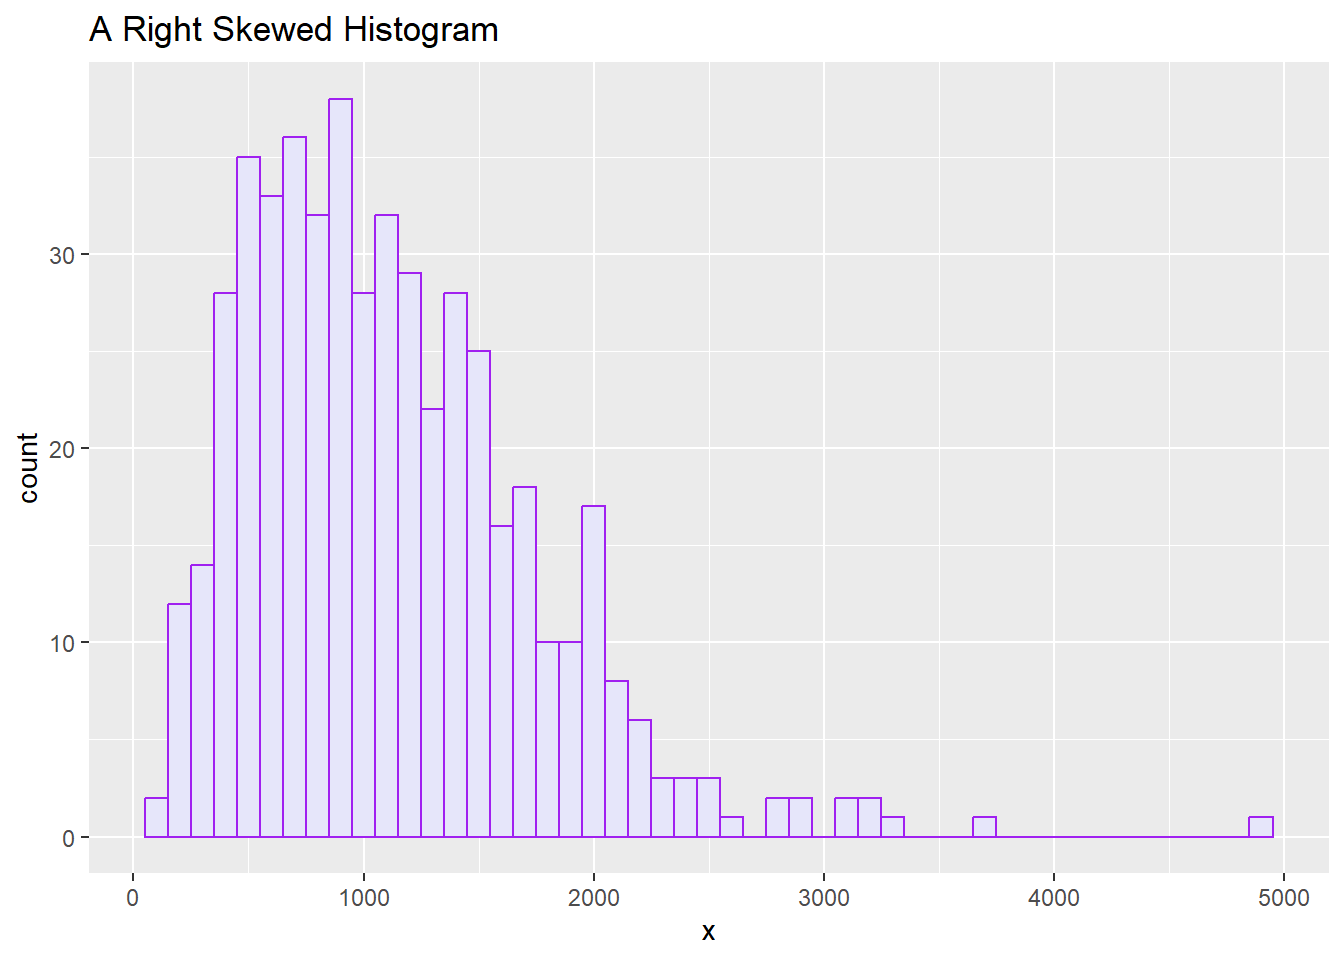
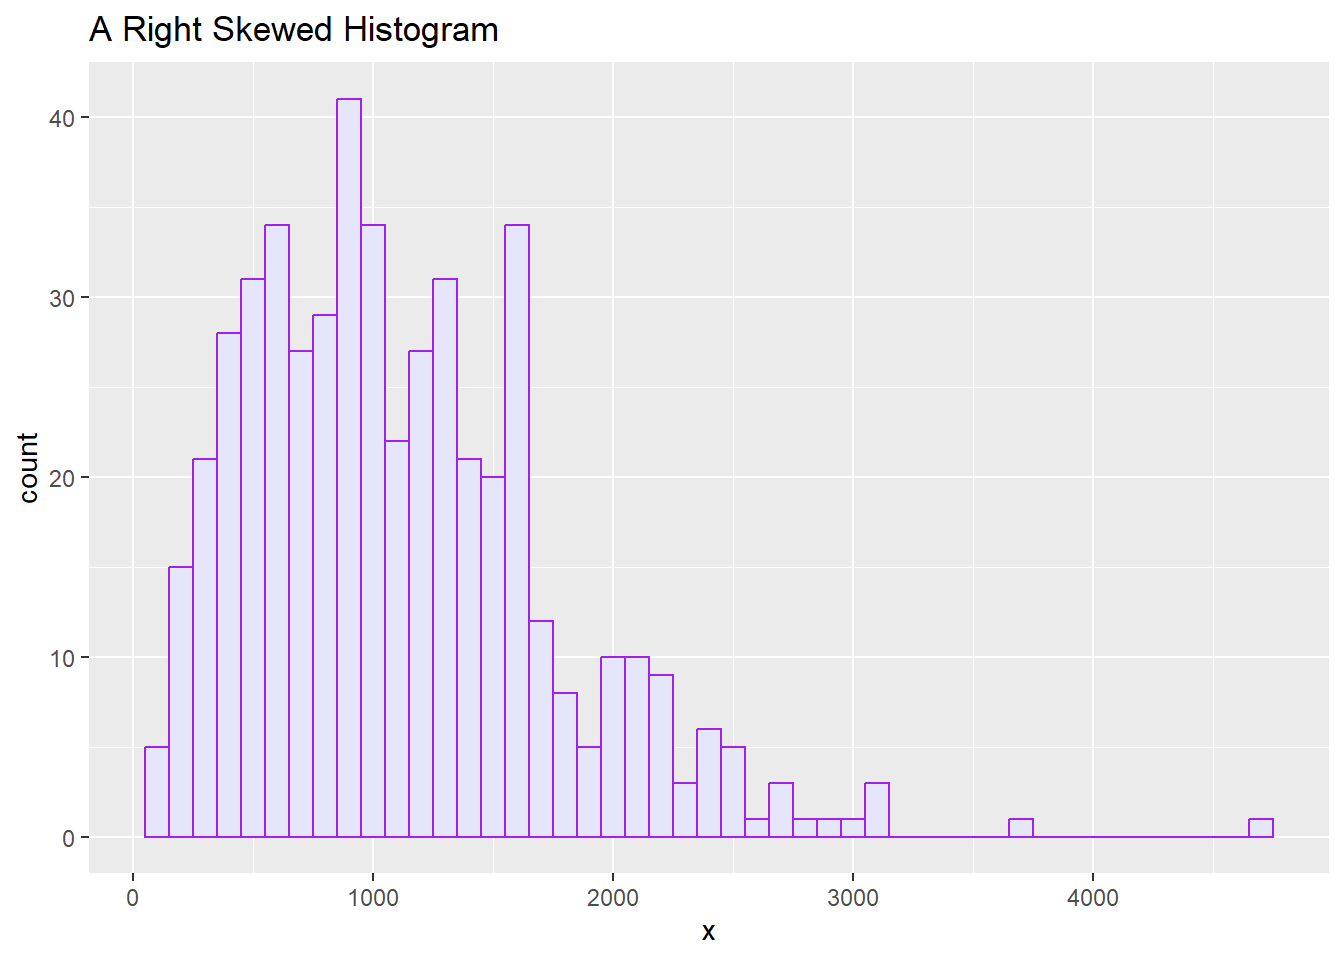
rebuild search index

diff --git a/docs/index.html b/docs/index.html
@@ -113,7 +113,7 @@ pre > code.sourceCode > span > a:first-child::before { text-decoration: underlin
 </script>
 
 <!-- ============================================================
-     BUAD231 Course Assistant — Floating Chat Bubble
+     Statistics Course Assistant — Floating Chat Bubble
      Appears on every page of the book.
      Set WORKER_URL below to your Cloudflare Worker URL.
      ============================================================ -->
@@ -463,7 +463,7 @@ pre > code.sourceCode > span > a:first-child::before { text-decoration: underlin
     <div class="logo">R∑</div>
     <div class="title">
       <h3>Course Assistant</h3>
-      <p>BUAD231 · R &amp; Statistics</p>
+      <p>R &amp; Statistics</p>
     </div>
     <button id="chat-close-btn" onclick="toggleChat()" aria-label="Close">
       <svg viewbox="0 0 24 24" fill="none" stroke="currentColor" stroke-width="2.5" stroke-linecap="round">
@@ -501,7 +501,7 @@ pre > code.sourceCode > span > a:first-child::before { text-decoration: underlin
 <script>
   // ============================================================
   // Set this to your Cloudflare Worker URL after deploying
-  // Example: 'https://buad231-chat.yourname.workers.dev'
+
   // ============================================================
   var CHAT_WORKER_URL = 'https://statchat.pamela-schlosser.workers.dev/';
   // ============================================================
@@ -1213,7 +1213,7 @@ window.Quarto = {
 </ul>
 <div class="quarto-figure quarto-figure-center">
 <figure class="figure">
-<p><img src="Pictures/RMDTasks.png" class="img-fluid figure-img"></p>
+<p><img src="Pictures/RMD/RMDTasks.png" class="img-fluid figure-img"></p>
 <figcaption>Looking at the HW</figcaption>
 </figure>
 </div>

diff --git a/docs/module1.html b/docs/module1.html
@@ -114,7 +114,7 @@ pre > code.sourceCode > span > a:first-child::before { text-decoration: underlin
 </script>
 
 <!-- ============================================================
-     BUAD231 Course Assistant — Floating Chat Bubble
+     Statistics Course Assistant — Floating Chat Bubble
      Appears on every page of the book.
      Set WORKER_URL below to your Cloudflare Worker URL.
      ============================================================ -->
@@ -464,7 +464,7 @@ pre > code.sourceCode > span > a:first-child::before { text-decoration: underlin
     <div class="logo">R∑</div>
     <div class="title">
       <h3>Course Assistant</h3>
-      <p>BUAD231 · R &amp; Statistics</p>
+      <p>R &amp; Statistics</p>
     </div>
     <button id="chat-close-btn" onclick="toggleChat()" aria-label="Close">
       <svg viewbox="0 0 24 24" fill="none" stroke="currentColor" stroke-width="2.5" stroke-linecap="round">
@@ -502,7 +502,7 @@ pre > code.sourceCode > span > a:first-child::before { text-decoration: underlin
 <script>
   // ============================================================
   // Set this to your Cloudflare Worker URL after deploying
-  // Example: 'https://buad231-chat.yourname.workers.dev'
+
   // ============================================================
   var CHAT_WORKER_URL = 'https://statchat.pamela-schlosser.workers.dev/';
   // ============================================================

diff --git a/docs/module2.html b/docs/module2.html
@@ -114,7 +114,7 @@ pre > code.sourceCode > span > a:first-child::before { text-decoration: underlin
 </script>
 
 <!-- ============================================================
-     BUAD231 Course Assistant — Floating Chat Bubble
+     Statistics Course Assistant — Floating Chat Bubble
      Appears on every page of the book.
      Set WORKER_URL below to your Cloudflare Worker URL.
      ============================================================ -->
@@ -464,7 +464,7 @@ pre > code.sourceCode > span > a:first-child::before { text-decoration: underlin
     <div class="logo">R∑</div>
     <div class="title">
       <h3>Course Assistant</h3>
-      <p>BUAD231 · R &amp; Statistics</p>
+      <p>R &amp; Statistics</p>
     </div>
     <button id="chat-close-btn" onclick="toggleChat()" aria-label="Close">
       <svg viewbox="0 0 24 24" fill="none" stroke="currentColor" stroke-width="2.5" stroke-linecap="round">
@@ -502,7 +502,7 @@ pre > code.sourceCode > span > a:first-child::before { text-decoration: underlin
 <script>
   // ============================================================
   // Set this to your Cloudflare Worker URL after deploying
-  // Example: 'https://buad231-chat.yourname.workers.dev'
+
   // ============================================================
   var CHAT_WORKER_URL = 'https://statchat.pamela-schlosser.workers.dev/';
   // ============================================================

diff --git a/docs/module3.html b/docs/module3.html
@@ -114,7 +114,7 @@ pre > code.sourceCode > span > a:first-child::before { text-decoration: underlin
 </script>
 
 <!-- ============================================================
-     BUAD231 Course Assistant — Floating Chat Bubble
+     Statistics Course Assistant — Floating Chat Bubble
      Appears on every page of the book.
      Set WORKER_URL below to your Cloudflare Worker URL.
      ============================================================ -->
@@ -464,7 +464,7 @@ pre > code.sourceCode > span > a:first-child::before { text-decoration: underlin
     <div class="logo">R∑</div>
     <div class="title">
       <h3>Course Assistant</h3>
-      <p>BUAD231 · R &amp; Statistics</p>
+      <p>R &amp; Statistics</p>
     </div>
     <button id="chat-close-btn" onclick="toggleChat()" aria-label="Close">
       <svg viewbox="0 0 24 24" fill="none" stroke="currentColor" stroke-width="2.5" stroke-linecap="round">
@@ -502,7 +502,7 @@ pre > code.sourceCode > span > a:first-child::before { text-decoration: underlin
 <script>
   // ============================================================
   // Set this to your Cloudflare Worker URL after deploying
-  // Example: 'https://buad231-chat.yourname.workers.dev'
+
   // ============================================================
   var CHAT_WORKER_URL = 'https://statchat.pamela-schlosser.workers.dev/';
   // ============================================================

diff --git a/docs/module4.html b/docs/module4.html
@@ -114,7 +114,7 @@ pre > code.sourceCode > span > a:first-child::before { text-decoration: underlin
 </script>
 
 <!-- ============================================================
-     BUAD231 Course Assistant — Floating Chat Bubble
+     Statistics Course Assistant — Floating Chat Bubble
      Appears on every page of the book.
      Set WORKER_URL below to your Cloudflare Worker URL.
      ============================================================ -->
@@ -464,7 +464,7 @@ pre > code.sourceCode > span > a:first-child::before { text-decoration: underlin
     <div class="logo">R∑</div>
     <div class="title">
       <h3>Course Assistant</h3>
-      <p>BUAD231 · R &amp; Statistics</p>
+      <p>R &amp; Statistics</p>
     </div>
     <button id="chat-close-btn" onclick="toggleChat()" aria-label="Close">
       <svg viewbox="0 0 24 24" fill="none" stroke="currentColor" stroke-width="2.5" stroke-linecap="round">
@@ -502,7 +502,7 @@ pre > code.sourceCode > span > a:first-child::before { text-decoration: underlin
 <script>
   // ============================================================
   // Set this to your Cloudflare Worker URL after deploying
-  // Example: 'https://buad231-chat.yourname.workers.dev'
+
   // ============================================================
   var CHAT_WORKER_URL = 'https://statchat.pamela-schlosser.workers.dev/';
   // ============================================================

diff --git a/docs/module5.html b/docs/module5.html
@@ -114,7 +114,7 @@ pre > code.sourceCode > span > a:first-child::before { text-decoration: underlin
 </script>
 
 <!-- ============================================================
-     BUAD231 Course Assistant — Floating Chat Bubble
+     Statistics Course Assistant — Floating Chat Bubble
      Appears on every page of the book.
      Set WORKER_URL below to your Cloudflare Worker URL.
      ============================================================ -->
@@ -464,7 +464,7 @@ pre > code.sourceCode > span > a:first-child::before { text-decoration: underlin
     <div class="logo">R∑</div>
     <div class="title">
       <h3>Course Assistant</h3>
-      <p>BUAD231 · R &amp; Statistics</p>
+      <p>R &amp; Statistics</p>
     </div>
     <button id="chat-close-btn" onclick="toggleChat()" aria-label="Close">
       <svg viewbox="0 0 24 24" fill="none" stroke="currentColor" stroke-width="2.5" stroke-linecap="round">
@@ -502,7 +502,7 @@ pre > code.sourceCode > span > a:first-child::before { text-decoration: underlin
 <script>
   // ============================================================
   // Set this to your Cloudflare Worker URL after deploying
-  // Example: 'https://buad231-chat.yourname.workers.dev'
+
   // ============================================================
   var CHAT_WORKER_URL = 'https://statchat.pamela-schlosser.workers.dev/';
   // ============================================================

diff --git a/docs/module6.html b/docs/module6.html
@@ -114,7 +114,7 @@ pre > code.sourceCode > span > a:first-child::before { text-decoration: underlin
 </script>
 
 <!-- ============================================================
-     BUAD231 Course Assistant — Floating Chat Bubble
+     Statistics Course Assistant — Floating Chat Bubble
      Appears on every page of the book.
      Set WORKER_URL below to your Cloudflare Worker URL.
      ============================================================ -->
@@ -464,7 +464,7 @@ pre > code.sourceCode > span > a:first-child::before { text-decoration: underlin
     <div class="logo">R∑</div>
     <div class="title">
       <h3>Course Assistant</h3>
-      <p>BUAD231 · R &amp; Statistics</p>
+      <p>R &amp; Statistics</p>
     </div>
     <button id="chat-close-btn" onclick="toggleChat()" aria-label="Close">
       <svg viewbox="0 0 24 24" fill="none" stroke="currentColor" stroke-width="2.5" stroke-linecap="round">
@@ -502,7 +502,7 @@ pre > code.sourceCode > span > a:first-child::before { text-decoration: underlin
 <script>
   // ============================================================
   // Set this to your Cloudflare Worker URL after deploying
-  // Example: 'https://buad231-chat.yourname.workers.dev'
+
   // ============================================================
   var CHAT_WORKER_URL = 'https://statchat.pamela-schlosser.workers.dev/';
   // ============================================================

diff --git a/docs/module7.html b/docs/module7.html
@@ -114,7 +114,7 @@ pre > code.sourceCode > span > a:first-child::before { text-decoration: underlin
 </script>
 
 <!-- ============================================================
-     BUAD231 Course Assistant — Floating Chat Bubble
+     Statistics Course Assistant — Floating Chat Bubble
      Appears on every page of the book.
      Set WORKER_URL below to your Cloudflare Worker URL.
      ============================================================ -->
@@ -464,7 +464,7 @@ pre > code.sourceCode > span > a:first-child::before { text-decoration: underlin
     <div class="logo">R∑</div>
     <div class="title">
       <h3>Course Assistant</h3>
-      <p>BUAD231 · R &amp; Statistics</p>
+      <p>R &amp; Statistics</p>
     </div>
     <button id="chat-close-btn" onclick="toggleChat()" aria-label="Close">
       <svg viewbox="0 0 24 24" fill="none" stroke="currentColor" stroke-width="2.5" stroke-linecap="round">
@@ -502,7 +502,7 @@ pre > code.sourceCode > span > a:first-child::before { text-decoration: underlin
 <script>
   // ============================================================
   // Set this to your Cloudflare Worker URL after deploying
-  // Example: 'https://buad231-chat.yourname.workers.dev'
+
   // ============================================================
   var CHAT_WORKER_URL = 'https://statchat.pamela-schlosser.workers.dev/';
   // ============================================================

diff --git a/docs/summary.html b/docs/summary.html
@@ -77,7 +77,7 @@ ul.task-list li input[type="checkbox"] {
 </script>
 
 <!-- ============================================================
-     BUAD231 Course Assistant — Floating Chat Bubble
+     Statistics Course Assistant — Floating Chat Bubble
      Appears on every page of the book.
      Set WORKER_URL below to your Cloudflare Worker URL.
      ============================================================ -->
@@ -427,7 +427,7 @@ ul.task-list li input[type="checkbox"] {
     <div class="logo">R∑</div>
     <div class="title">
       <h3>Course Assistant</h3>
-      <p>BUAD231 · R &amp; Statistics</p>
+      <p>R &amp; Statistics</p>
     </div>
     <button id="chat-close-btn" onclick="toggleChat()" aria-label="Close">
       <svg viewbox="0 0 24 24" fill="none" stroke="currentColor" stroke-width="2.5" stroke-linecap="round">
@@ -465,7 +465,7 @@ ul.task-list li input[type="checkbox"] {
 <script>
   // ============================================================
   // Set this to your Cloudflare Worker URL after deploying
-  // Example: 'https://buad231-chat.yourname.workers.dev'
+
   // ============================================================
   var CHAT_WORKER_URL = 'https://statchat.pamela-schlosser.workers.dev/';
   // ============================================================